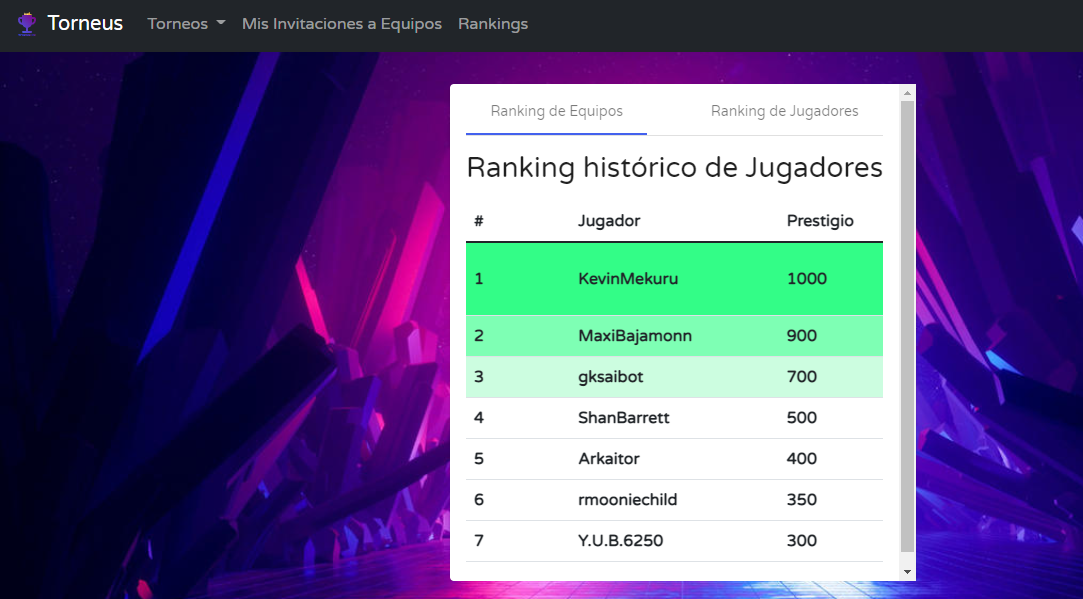
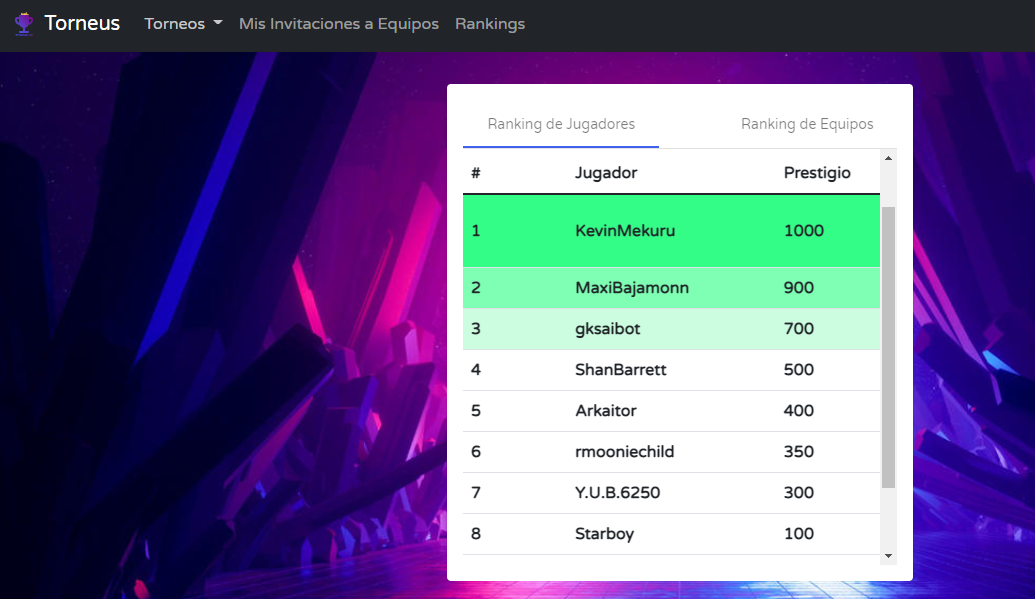
Imagenes videojuegos

diff --git a/src/app/pages/rankings/rankings-main/rankings-main.component.html b/src/app/pages/rankings/rankings-main/rankings-main.component.html
@@ -1,10 +1,10 @@
 <!-- d-flex flex-column justify-content-center align-items-center -->
 <div class="background">
     <div class="container d-flex align-items-center">
-        <mat-card class="w-auto mat-card d-flex flex-column justify-content-center align-items-center">
+        <mat-card class="w-auto mat-card d-flex justify-content-center">
             <mat-tab-group class="w-100 d-flex justify-content-between">
                 <!-- Equipos -->
-                <mat-tab class="pt-2" label="Ranking de Equipos">
+                <mat-tab class="pt-2" label="Ranking de Jugadores">
                     <div class="info w-100">
                         <div class="titulo my-3 text-center">
                             <h3>Ranking histórico de Jugadores</h3>
@@ -59,7 +59,7 @@
                     </div>
                 </mat-tab>
                 <!-- Jugadores -->
-                <mat-tab label="Ranking de Jugadores">
+                <mat-tab label="Ranking de Equipos">
                     <div class=" w-100">
                         <div class="titulo my-3 text-center">
                             <h3>Ranking histórico de Equipos</h3>

diff --git a/src/app/pages/landing/introduccion/introduccion.component.html b/src/app/pages/landing/introduccion/introduccion.component.html
@@ -1,7 +1,7 @@
 <div class="land-intro">
     <div class="row land-row">
         <div class="col-md-6 col-12 land-intro-left">
-            <img class="logo-torneus" src="../../../../assets/images/logo-torneus-main.svg" width="95" height="105">
+            <img class="logo-torneus" src="../../../../assets/images/logo-torneus-main.png" width="90" height="120">
             <div class="land-text">
                 <p class="torneus-subtitle">LA MEJOR WEB DE TORNEOS E-SPORTS</p>
                 <p class="torneus-desc">Organiza o compite en torneos de tus juegos favoritos.</p>

diff --git a/src/app/pages/landing/introduccion/introduccion.component.scss b/src/app/pages/landing/introduccion/introduccion.component.scss
@@ -8,7 +8,6 @@
     width:100%;
 }
 .land-intro .logo-torneus{
-    width:200px;
     margin:30px 100px;
 }
 
